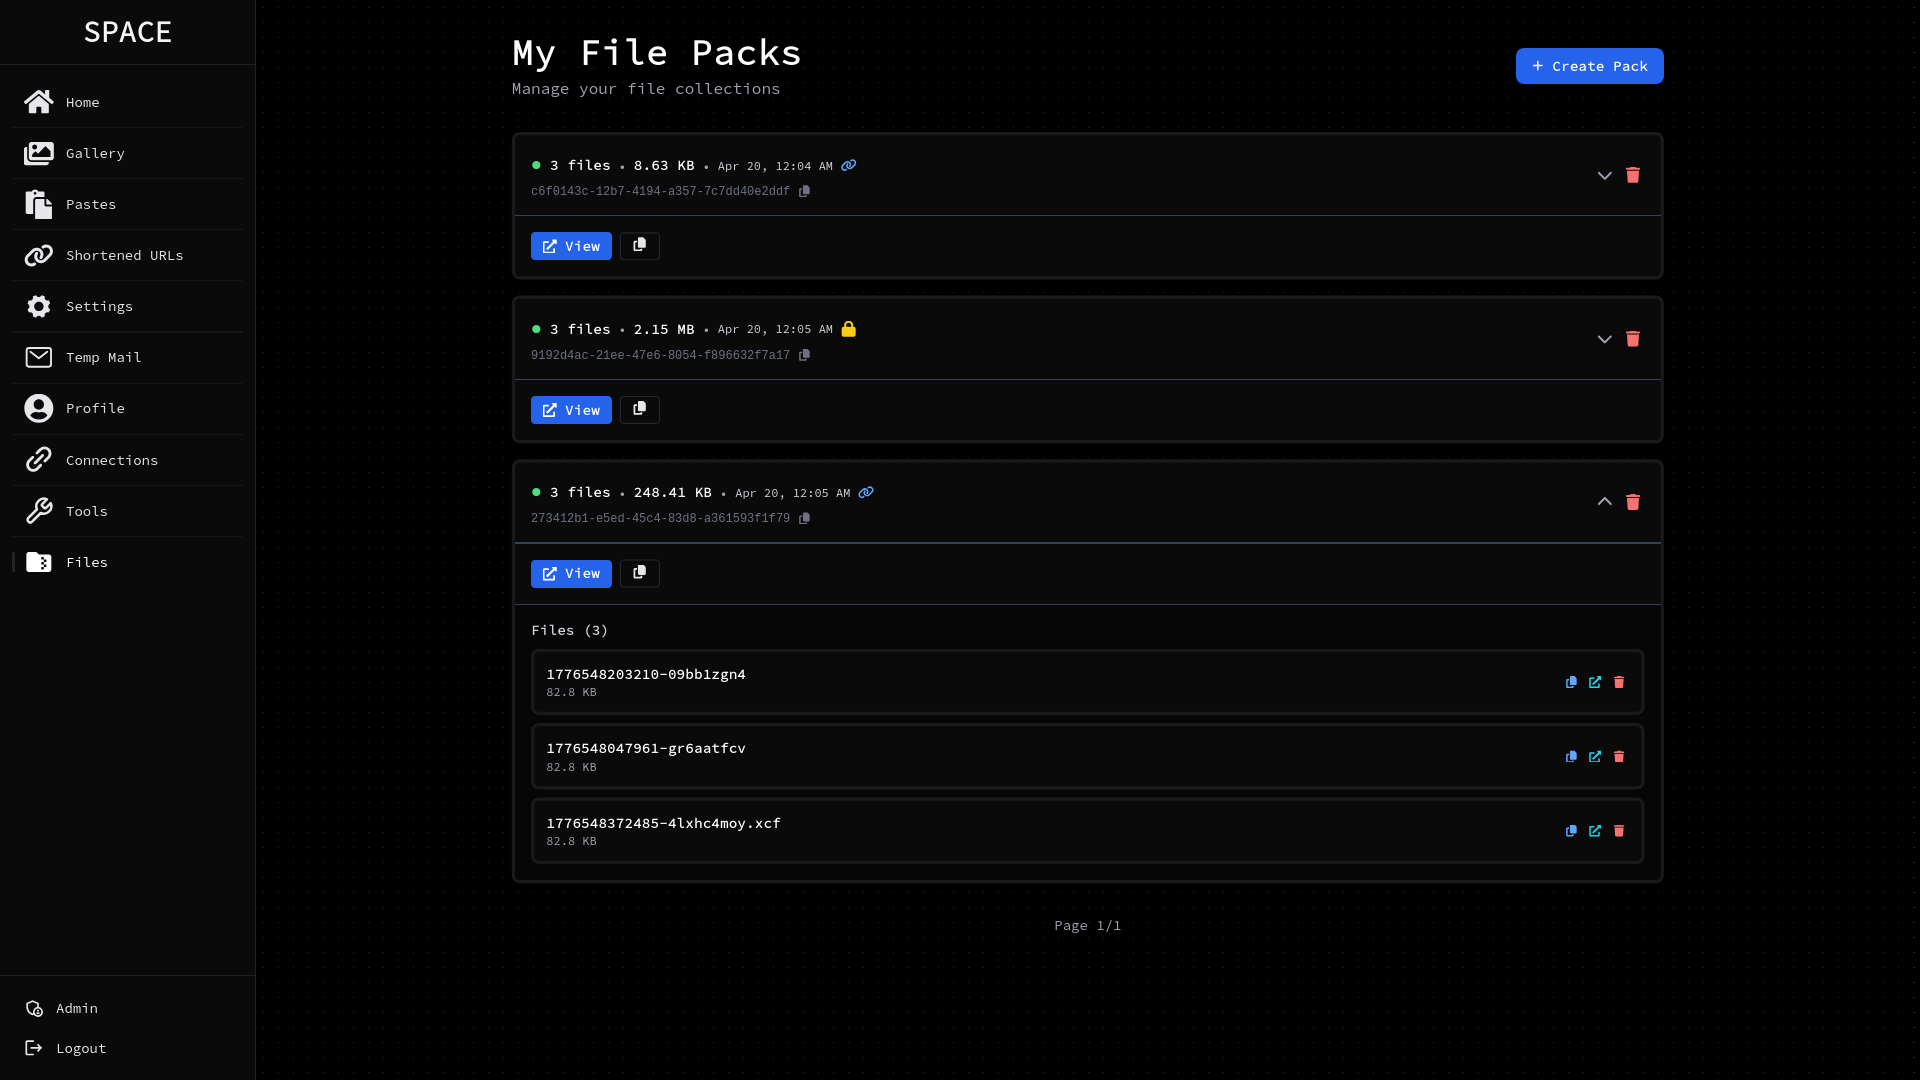
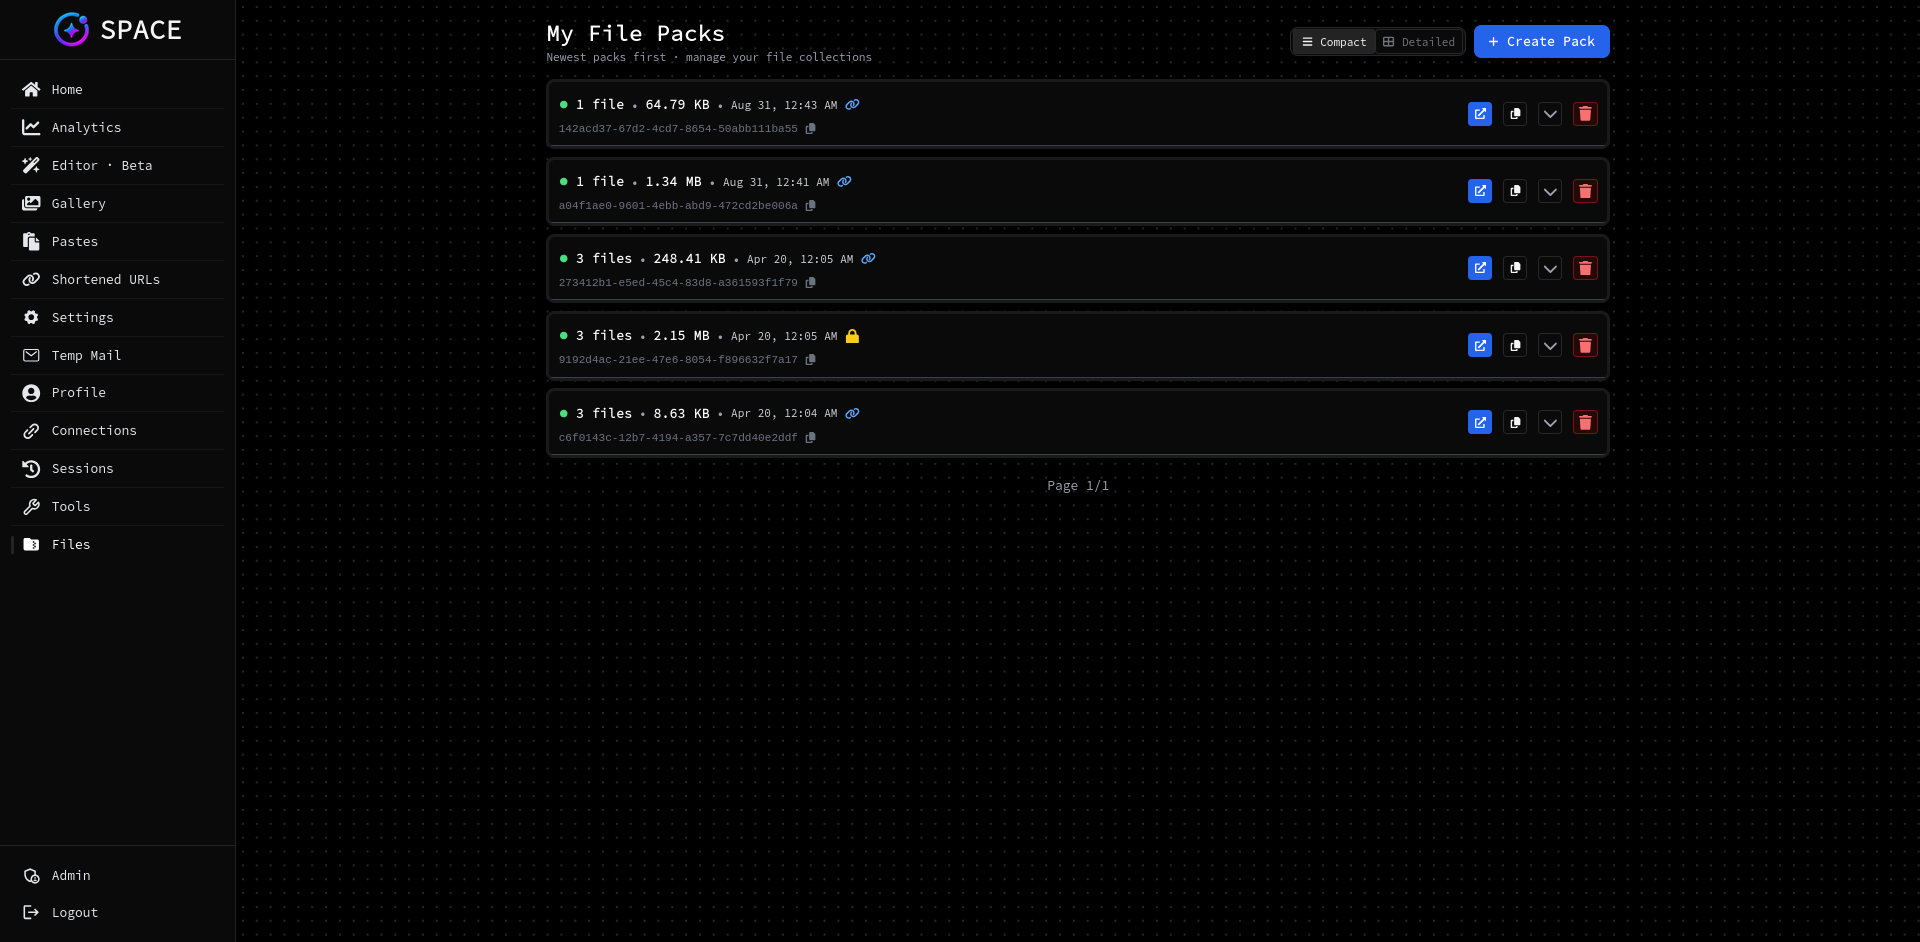
projects update

diff --git a/src/util/projects.ts b/src/util/projects.ts
@@ -25,14 +25,19 @@ export const projects: Project[] = [
             "https://img.shields.io/badge/Java-%23ED8B00.svg?logo=openjdk&logoColor=white",
             "https://img.shields.io/badge/Spring%20Boot-6DB33F?logo=springboot&logoColor=fff",
             "https://img.shields.io/badge/MariaDB-003545?logo=mariadb&logoColor=white",
+            "https://img.shields.io/badge/Qt-2CDE85?logo=Qt&logoColor=fff",
             "https://img.shields.io/badge/React-%2320232a.svg?logo=react&logoColor=%2361DAFB",
             "https://img.shields.io/badge/Next.js-black?logo=next.js&logoColor=white",
             "https://img.shields.io/badge/TypeScript-3178C6?logo=typescript&logoColor=fff",
             "https://img.shields.io/badge/Cloudflare-Workers-orange?logo=cloudflare",
             "https://img.shields.io/static/v1?label=%20&message=Cloudflare%20R2&color=222&logo=Cloudflare",
             "https://img.shields.io/badge/WebSocket-4353FF?style=flat&logo=socket.io&logoColor=white",
[1 lines of base64/hex data omitted]
-
+            "https://img.shields.io/badge/Vercel-%23000000.svg?logo=vercel&logoColor=white",
+            "https://img.shields.io/badge/OpenAPI-6BA539?logo=openapiinitiative&logoColor=white",
+            "https://img.shields.io/badge/Prometheus-E6522C?logo=prometheus&logoColor=white",
+            "https://img.shields.io/badge/OpenTelemetry-000?logo=opentelemetry&logoColor=fff",
[1 lines of base64/hex data omitted]
+            "https://img.shields.io/badge/Grafana-F46800?logo=grafana&logoColor=white"
         ],
         left_button: {
             label: "View portal",
@@ -53,6 +58,8 @@ export const projects: Project[] = [
             "/img/space/09.png",
             "/img/space/10.png",
             "/img/space/11.png",
+            "/img/space/12.png",
+            "/img/space/13.png",
         ]
     },
     {
@@ -113,6 +120,11 @@ export const projects: Project[] = [
             label: "Store",
             href: "https://playcore.cz",
         },
+        left_button: {
+            label: "Plugin page",
+            href: "https://plugins.xap3y.eu/vip",
+            icon: "bx:link-external"
+        },
         gallery: [
             "/img/vip/01.png",
             "/img/vip/02.png",
@@ -120,7 +132,7 @@ export const projects: Project[] = [
             "/img/vip/04.png",
             "/img/vip/05.png",
             "/img/vip/06.png",
-            "/img/vip/07.png",
+            "/img/vip/07-old.png",
             "/img/vip/08.gif",
         ]
     },
@@ -136,6 +148,29 @@ export const projects: Project[] = [
             "/img/reports/01.png",
             "/img/reports/02.png",
             "/img/reports/03.png"
+        ],
+        left_button: {
+            label: "Plugin page",
+            href: "https://plugins.xap3y.eu/reports",
+            icon: "bx:link-external"
+        }
+    },
+    {
+        name: "GunGame Plugin",
+        description: "A plugin for Minecraft servers that adds GunGame minigame to the game. Players need to kill other players to get new weapons and win the game.",
+        tags: [
+            "https://img.shields.io/badge/Java-%23ED8B00.svg?logo=openjdk&logoColor=white",
+            "https://img.shields.io/badge/MariaDB-003545?logo=mariadb&logoColor=white"
+        ],
+        left_button: {
+            label: "Plugin page",
+            href: "https://plugins.xap3y.eu/gungame",
+            icon: "bx:link-external"
+        },
+        gallery: [
+            "/img/gg/01.png",
+            "/img/gg/02.png",
+            "/img/gg/03.png"
         ]
     },
     {
@@ -145,9 +180,9 @@ export const projects: Project[] = [
             "https://img.shields.io/badge/Java-%23ED8B00.svg?logo=openjdk&logoColor=white"
         ],
         left_button: {
-            label: "Source",
-            href: "https://github.com/xap3y/McGeocaching",
-            icon: "mdi:github"
+            label: "Plugin page",
+            href: "https://plugins.xap3y.eu/mentions",
+            icon: "bx:link-external"
         },
         right_button: {
             label: "Download",
@@ -180,6 +215,11 @@ export const projects: Project[] = [
             "https://img.shields.io/badge/Java-%23ED8B00.svg?logo=openjdk&logoColor=white"
         ],
         left_button: {
+            label: "Plugin page",
+            href: "https://plugins.xap3y.eu/egghunt",
+            icon: "bx:link-external"
+        },
+        right_button: {
             label: "Source",
             href: "https://github.com/xap3y/McGeocaching",
             icon: "mdi:github",
@@ -199,6 +239,11 @@ export const projects: Project[] = [
             "https://img.shields.io/badge/Java-%23ED8B00.svg?logo=openjdk&logoColor=white"
         ],
         left_button: {
+            label: "Plugin page",
+            href: "https://plugins.xap3y.eu/random-event",
+            icon: "bx:link-external"
+        },
+        right_button: {
             label: "Source",
             href: "https://github.com/xap3y/RandomEvent",
             icon: "mdi:github"
@@ -223,12 +268,34 @@ export const projects: Project[] = [
             "https://img.shields.io/badge/Java-%23ED8B00.svg?logo=openjdk&logoColor=white"
         ],
         left_button: {
+            label: "Plugin page",
+            href: "https://plugins.xap3y.eu/advent-calendar",
+            icon: "bx:link-external"
+        },
+        right_button: {
             label: "Source",
             href: "https://github.com/xap3y/AdventCalendar",
             icon: "mdi:github"
         },
         gallery: [
             "/img/ac/01.png",
+        ]
+    },
+    {
+        name: "McPanel",
+        description: "A web panel for building and deploying Minecraft plugins. It allows you to manage multiple servers and their plugins from a single interface.",
+        tags: [
+            "https://img.shields.io/badge/Go-%2300ADD8.svg?&logo=go&logoColor=white",
+            "https://img.shields.io/badge/MariaDB-003545?logo=mariadb&logoColor=white",
+            "https://img.shields.io/badge/WebSocket-4353FF?style=flat&logo=socket.io&logoColor=white"
+
+        ],
+        gallery: [
+            "/img/mcpanel/01.png",
+            "/img/mcpanel/02.png",
+            "/img/mcpanel/03.png",
+            "/img/mcpanel/04.png",
+            "/img/mcpanel/05.png"
         ]
     },
     {
